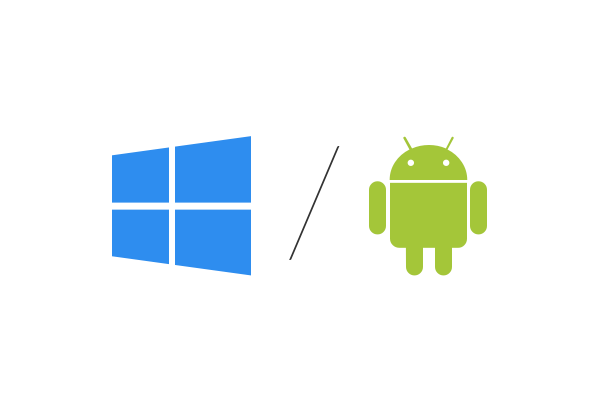
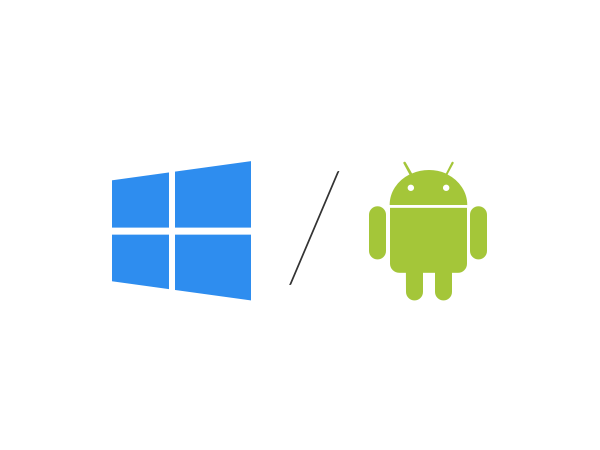
resize all feature images to same size, adjust feature-height on mobile

diff --git a/css/page.css b/css/page.css
@@ -209,6 +209,10 @@ body {
 		padding-top: 0px !important;
 	}
 
+	.feature-height {
+		min-height: 280px !important;
+	}
+
 	.right-feature {
 		padding-top: 0px !important;
 	}
